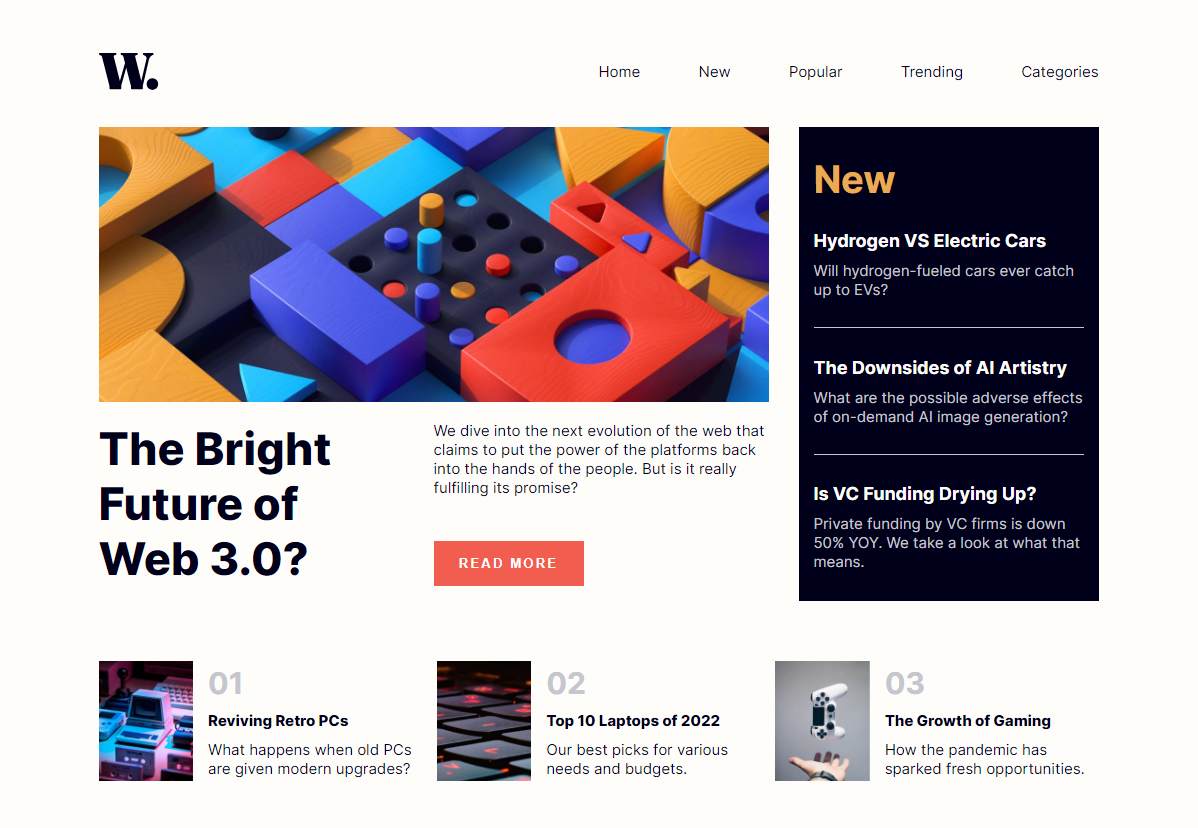
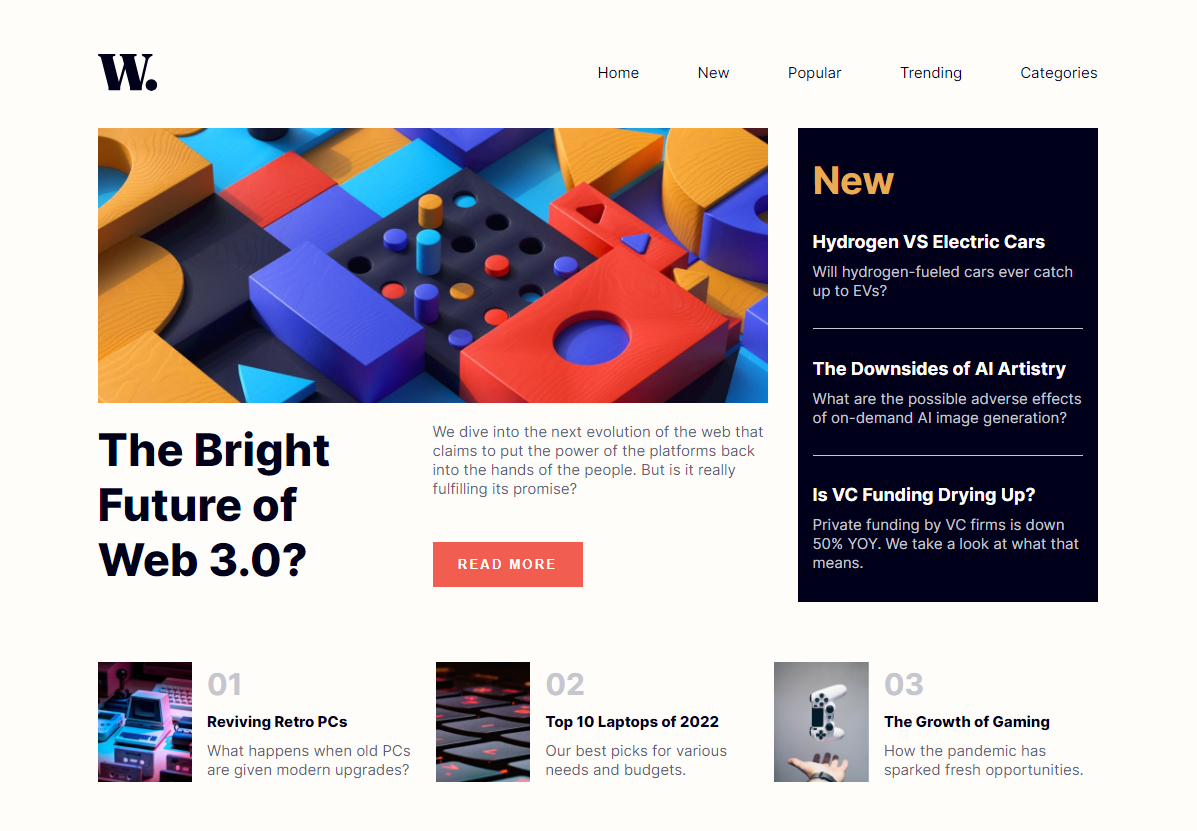
fixed paragraph text color

diff --git a/src/index.css b/src/index.css
@@ -10,7 +10,7 @@
   /* font */
   font-family: "Inter", sans-serif;
   font-size: 15px;
-  color: var(--very-dark-blue);
+  color: var(--dark-grayish-blue);
 }
 
 *, *::before, *::after {

diff --git a/src/App.css b/src/App.css
@@ -76,6 +76,7 @@ a:visited {
 
 .home-title {
   width: 40%;
+  color: var(--very-dark-blue);
   font-size: 3rem;
   font-weight: 800;
 }

diff --git a/src/components/trending.css b/src/components/trending.css
@@ -26,6 +26,7 @@
 }
 
 .trending-title {
+    color: var(--very-dark-blue);
     font-weight: 800;
 }
 
